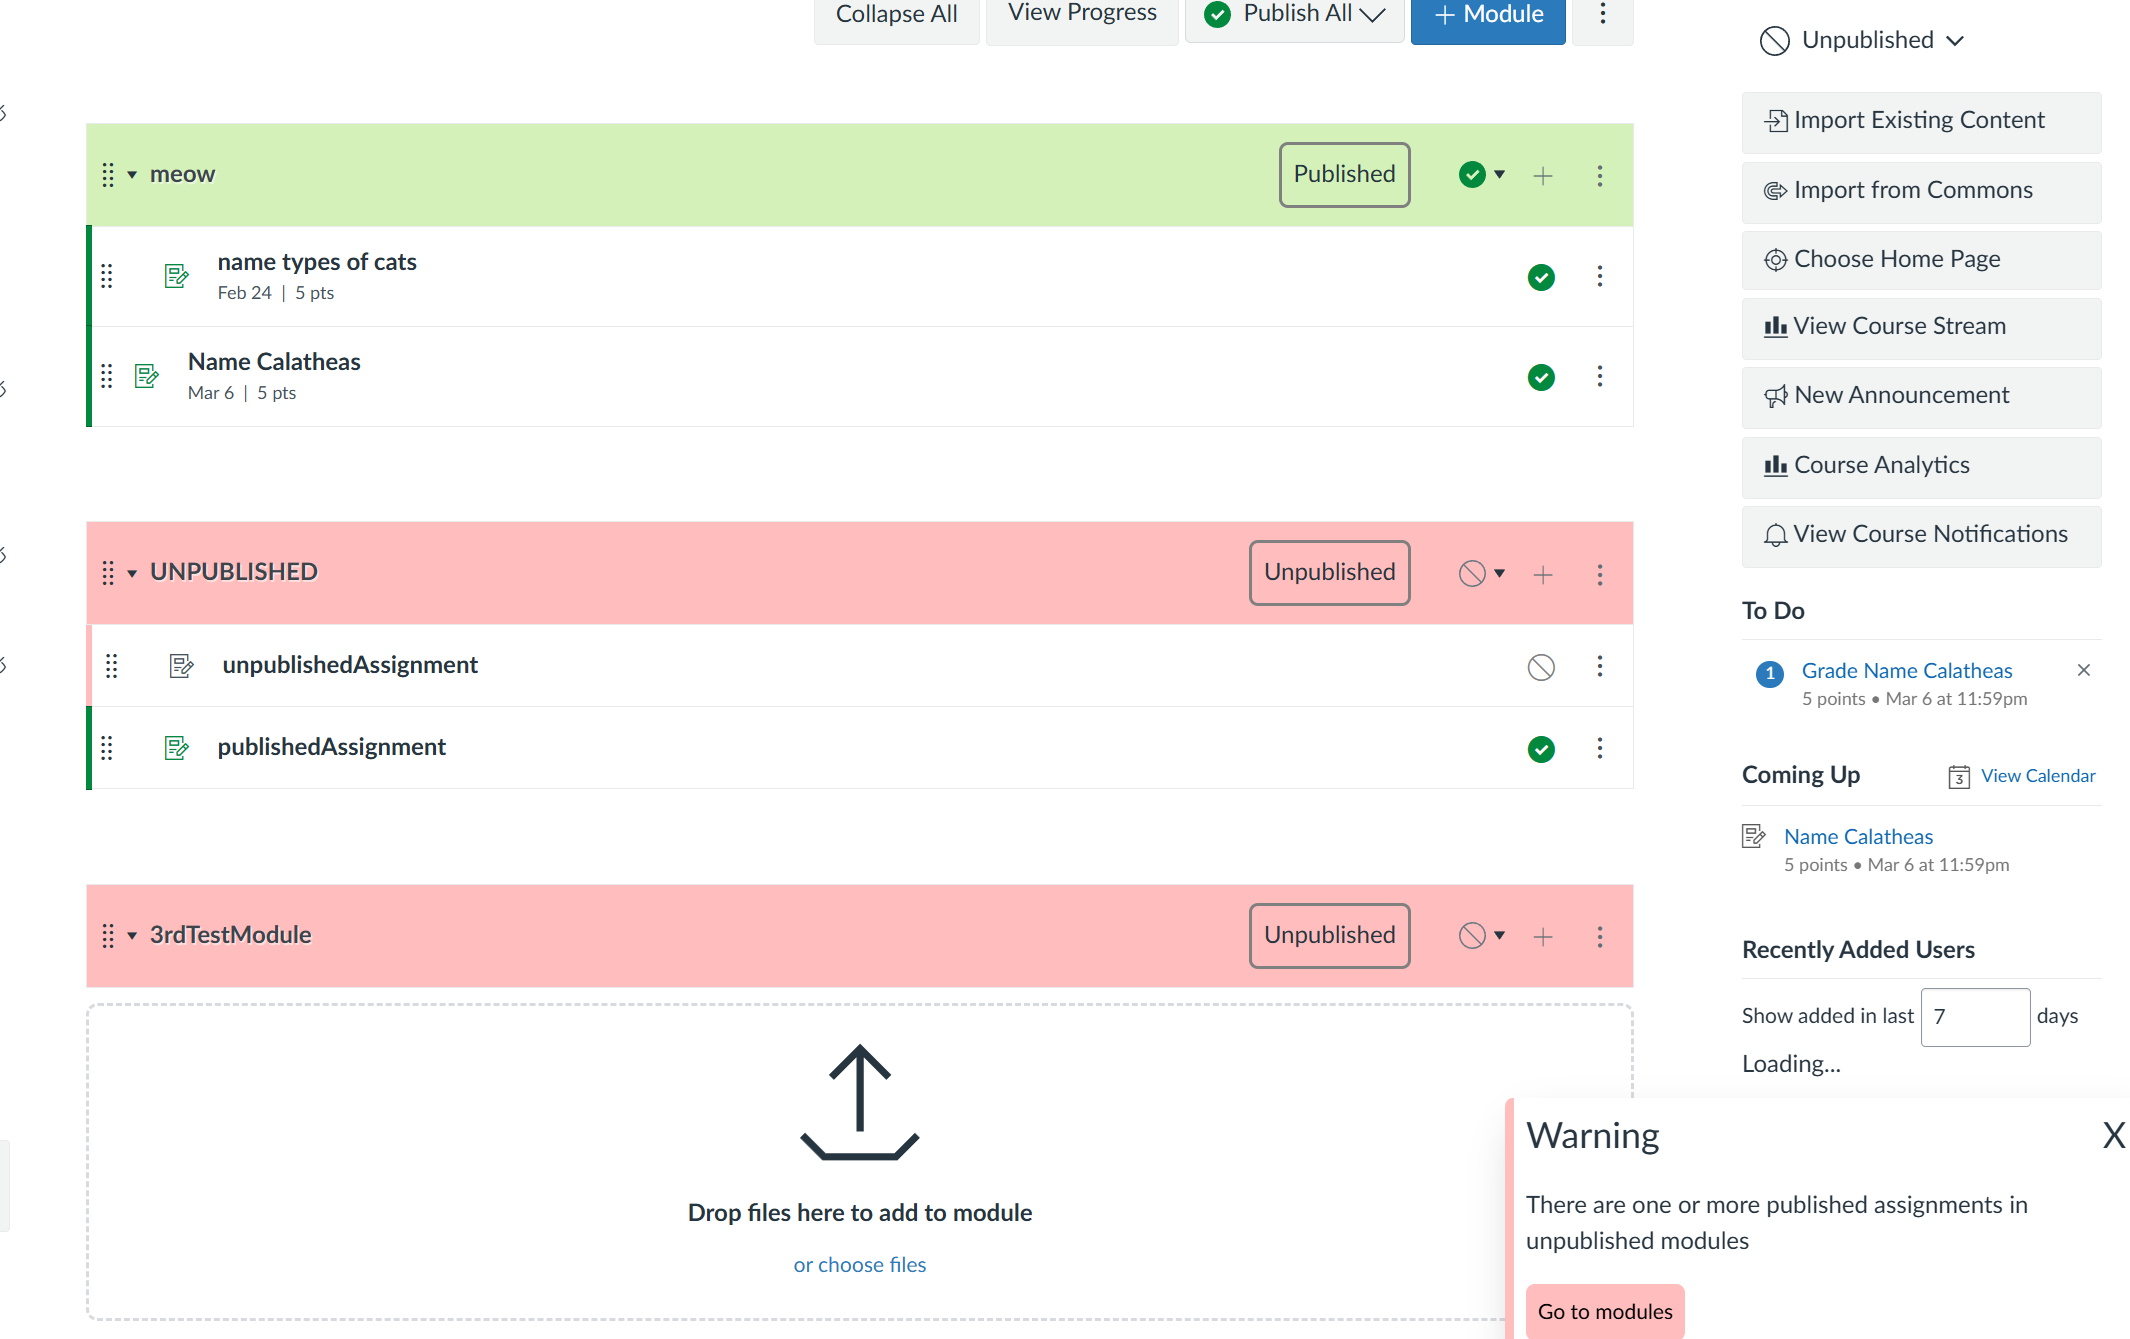
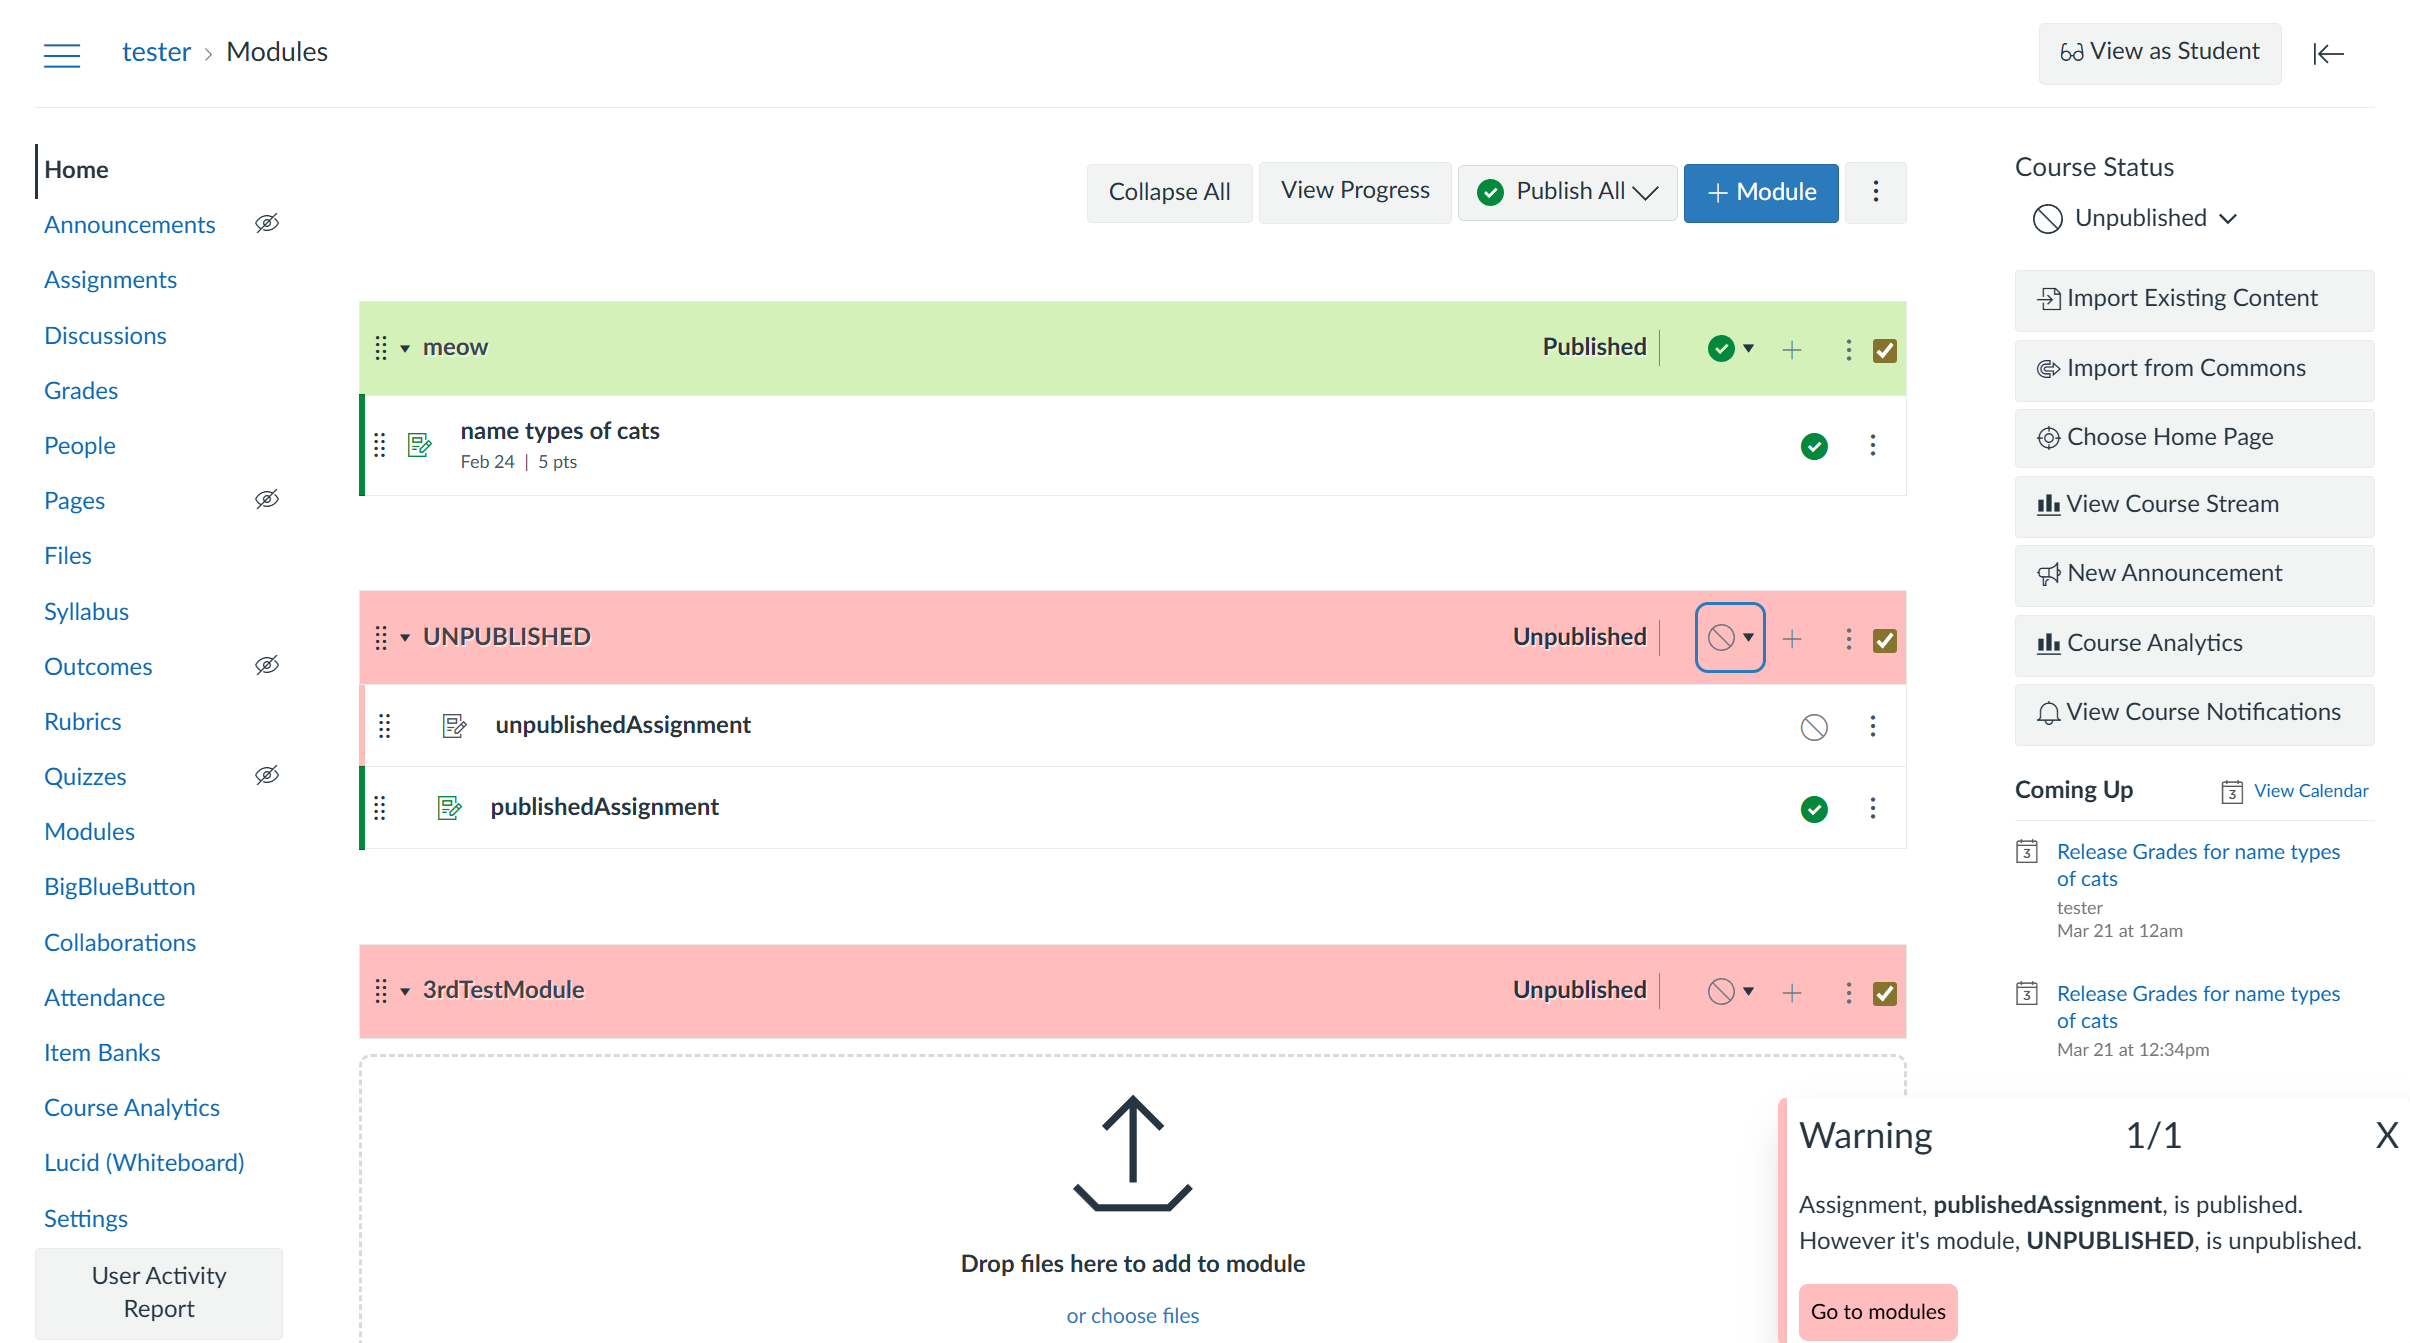
readme

diff --git a/README.md b/README.md
@@ -34,35 +34,35 @@ We are always working on new features, but here's what we have so far:
 ## Published and Unpublished indicators
 
 * The published/ unpublished indicators allow users to easily tell which modules and assignments are published vs not published by color coding them red (unpublished) vs green (published) and marking modules as unpublished in their header. 
-*A warning notification(s) shows up if user has published an assignment in an unpublished module- the notification takes them to the modules page.
+* A warning notification(s) shows up if user has published an assignment in an unpublished module- the notification takes them to the modules page.
+* The list of assignments on the 'add assignment' popup for modules also now shows if they are published or not
+* Warning notifications for individual modules can be toggled on and off
 
-Currently being worked on: 
-* indicators if an assignment is published in the "Add Assignment" pop-up for modules 
-* Specific information on which module warning is coming from in the warning popup
+How to Use: 
+* Headers and side of assignments automatically change color when you unpublish/publish them. 
+* Assignment list on 'add assignment' popup also automatically tells you if an assignment is published or not
+* Warning also shows up automatically when you publish/unpublish them
+* You can toggle warnings for individual modules by checking/unchecking the checkbox on the rightside in module headers
 
-Known issues:
-
-* Users have to refresh the page to see indicators after editing/ creating a module
-* slight delay in color taking hold when page is opened
 
 <img src="docs/UpdatedIndicators.png" title="indicators screenshot" >
+<img src="docs/AssignmentList.png" title="Assignment list screenshot" >
 
 
 ## Release Grade Reminder
 
 The release grade reminders is a workaround for the lack of a 'group release grade' feature- working alongside the existing 'hide grades' feature. 
-* It puts a button on the header of the speedgrader page that allows you to set a reminder to unhide the grades of the assignment the speedgrader is open for.
-*  It then adds the reminder as an event in the built in canvas calendar
+* It puts a button on the header of the speedgrader page that allows you to set a reminder (via date and, optionally, time) to unhide the grades of the assignment the    speedgrader is open for.
+*  It then adds the reminder as an event in the built in canvas calendar, reminder also automatically deletes itself after reminder is dealt with 
 *  On the day/ past the day of the set reminder, it will give you a warning notification to unhide the grades with a button that takes you to the gradebook.
+* You can publish grades straight from the notification, see all notifications via prev or next buttons, or reschedule the notification
+* Warning notification does not disappear until it is interacted with, forcing the instructor to be reminded 
 *  Reminder also shows up on the dashboard on the right hand side bar
 
-Currently being worked on:
-* Adding a specific time option in the calendar, instead of just date
-* UI tweaks for right-hand sidebar
-* Reminder notification doesnt disappear after reloading/ navigating to another page 
-
-Known issues:
-* set reminder button can have a delay to load
+How to use it:
+* Press the remind button on the autograder and set a date and time to be reminded
+* notification will appear on the day of/ past the reminder date
+* you can reschedule or publish grades via notification if desired
 
   <img src="docs/ReminderButton.png" title="reminder button in calendar" >
   <img src="docs/ReminderNotif.png" title="unhide reminder notification and show that reminder is in calendar" >